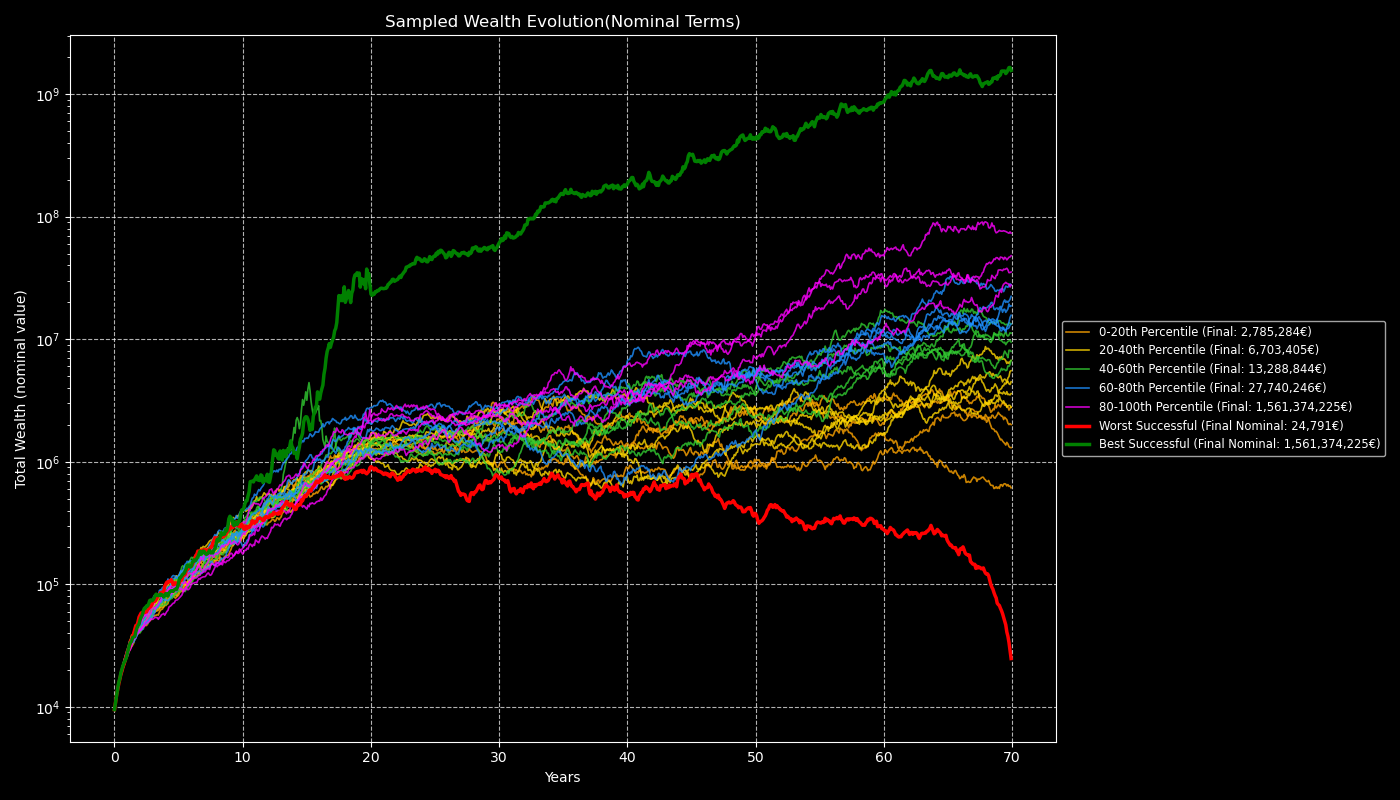
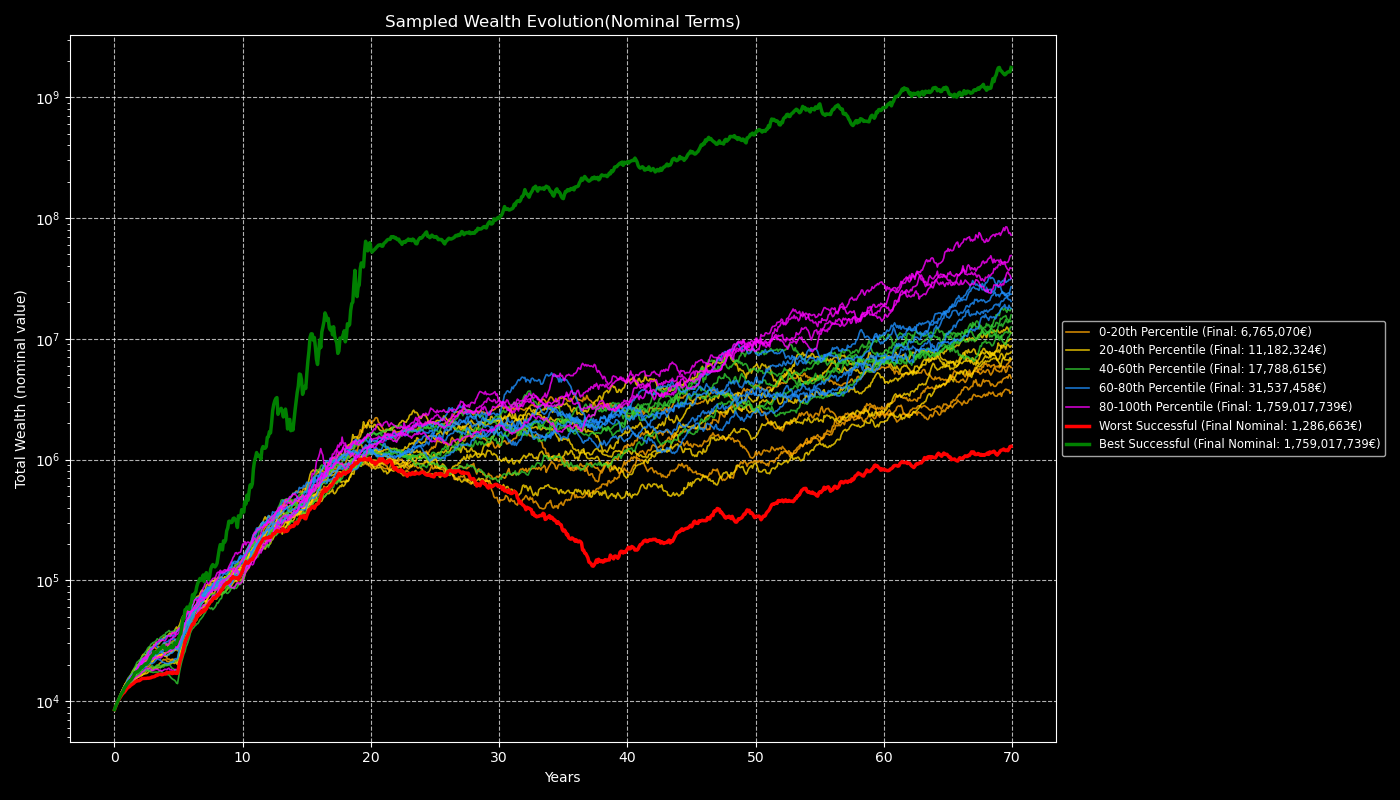
Docs.

diff --git a/docs/reports/summary.md b/docs/reports/summary.md
@@ -1,74 +1,80 @@
 # FIRE Plan Simulation Report
 
-Report generated on: 2025-07-24 12:20:42
+Report generated on: 2025-07-26 16:25:11
 Using configuration: `config.toml`
 
 ## FIRE Plan Simulation Summary
 
-- **FIRE Plan Success Rate:** 70.15%
-- **Number of failed simulations:** 2985
-- **Average months lasted in failed simulations:** 578.5
+- **FIRE Plan Success Rate:** 99.18%
+- **Number of failed simulations:** 82
+- **Average months lasted in failed simulations:** 209.0
 
 ## Final Wealth Distribution Statistics (Successful Simulations)
 
 | Statistic                     | Nominal Final Wealth          | Real Final Wealth (Today's Money) |
 |-------------------------------|-------------------------------|-----------------------------------|
-| Median (P50)                  | 9,477,741.48  | 1,762,743.87         |
-| 25th Percentile (P25)         | 3,600,072.23     | 678,297.13            |
-| 75th Percentile (P75)         | 22,380,777.30     | 4,336,351.09            |
-| Interquartile Range (P75-P25) | 18,780,705.07     | 3,658,053.95            |
+| Median (P50)                  | 13,982,998.30  | 2,538,218.88         |
+| 25th Percentile (P25)         | 7,771,846.63     | 1,381,654.68            |
+| 75th Percentile (P75)         | 26,900,633.18     | 4,961,089.74            |
+| Interquartile Range (P75-P25) | 19,128,786.55     | 3,579,435.06            |
 
 ## Nominal Results (cases selected by nominal final wealth)
 
 #### Worst Successful Case (Nominal)
 
-- **Final Wealth (Nominal):** 24,790.71
-- **Final Wealth (Real):** 6,153.34
-- **Your life CAGR (Nominal):** 1.63%
-- **Final Allocations (percent):** stocks: 100.0%, bonds: 0.0%, str: 0.0%, eth: 0.0%, ag: 0.0%, real_estate: 0.0%, inflation: 0.0%
-- **Nominal Asset Values:** stocks: 4,646.59 , bonds: 0.00 , str: 0.00 , eth: 0.00 , ag: 0.00 , real_estate: 0.00 , inflation: 0.00 , Bank: 20,144.12
+- **Final Wealth (Nominal):** 1,286,663.33
+- **Final Wealth (Real):** 242,972.05
+- **Cumulative Inflation Factor:** 5.2955
+- **Your life CAGR (Nominal):** 7.53%
+- **Final Allocations (percent):** stocks: 49.0%, bonds: 51.0%, str: 0.0%, eth: 0.0%, ag: 0.0%, real_estate: 0.0%
+- **Nominal Asset Values:** stocks: 605,093.52 , bonds: 628,614.61 , str: 0.00 , eth: 0.00 , ag: 0.00 , real_estate: 0.00 , Bank: 52,955.20
 
 #### Median Successful Case (Nominal)
 
-- **Final Wealth (Nominal):** 9,477,741.48
-- **Final Wealth (Real):** 2,181,489.57
-- **Your life CAGR (Nominal):** 10.64%
-- **Final Allocations (percent):** stocks: 100.0%, bonds: 0.0%, str: 0.0%, eth: 0.0%, ag: 0.0%, real_estate: 0.0%, inflation: 0.0%
-- **Nominal Asset Values:** stocks: 9,456,018.38 , bonds: 0.00 , str: 0.00 , eth: 0.00 , ag: 0.00 , real_estate: 0.00 , inflation: 0.00 , Bank: 21,723.10
+- **Final Wealth (Nominal):** 13,983,187.27
+- **Final Wealth (Real):** 2,666,273.85
+- **Cumulative Inflation Factor:** 5.2445
+- **Your life CAGR (Nominal):** 11.26%
+- **Final Allocations (percent):** stocks: 96.0%, bonds: 4.0%, str: 0.0%, eth: 0.0%, ag: 0.0%, real_estate: 0.0%
+- **Nominal Asset Values:** stocks: 13,372,449.10 , bonds: 558,293.49 , str: 0.00 , eth: 0.00 , ag: 0.00 , real_estate: 0.00 , Bank: 52,444.68
 
 #### Best Successful Case (Nominal)
 
-- **Final Wealth (Nominal):** 1,561,374,224.98
-- **Final Wealth (Real):** 298,305,313.59
-- **Your life CAGR (Nominal):** 19.01%
-- **Final Allocations (percent):** stocks: 97.6%, bonds: 2.4%, str: 0.0%, eth: 0.0%, ag: 0.0%, real_estate: 0.0%, inflation: 0.0%
-- **Nominal Asset Values:** stocks: 1,523,933,739.48 , bonds: 37,414,314.76 , str: 0.00 , eth: 0.00 , ag: 0.00 , real_estate: 0.00 , inflation: 0.00 , Bank: 26,170.74
+- **Final Wealth (Nominal):** 1,759,017,738.80
+- **Final Wealth (Real):** 410,403,135.94
+- **Cumulative Inflation Factor:** 4.2861
+- **Your life CAGR (Nominal):** 19.21%
+- **Final Allocations (percent):** stocks: 94.2%, bonds: 5.8%, str: 0.0%, eth: 0.0%, ag: 0.0%, real_estate: 0.0%
+- **Nominal Asset Values:** stocks: 1,657,192,172.88 , bonds: 101,782,705.20 , str: 0.00 , eth: 0.00 , ag: 0.00 , real_estate: 0.00 , Bank: 42,860.73
 
 ## Real Results (cases selected by real final wealth)
 
 #### Worst Successful Case (Real)
 
-- **Final Wealth (Real):** 5,298.27
-- **Final Wealth (Nominal):** 28,576.10
-- **Your life CAGR (Real):** -0.59%
-- **Final Allocations (percent):** stocks: 100.0%, bonds: 0.0%, str: 0.0%, eth: 0.0%, ag: 0.0%, real_estate: 0.0%, inflation: 0.0%
-- **Nominal Asset Values:** stocks: 1,608.71 , bonds: 0.00 , str: 0.00 , eth: 0.00 , ag: 0.00 , real_estate: 0.00 , inflation: 0.00 , Bank: 26,967.39
+- **Final Wealth (Real):** 180,453.56
+- **Final Wealth (Nominal):** 1,452,048.46
+- **Cumulative Inflation Factor:** 8.0467
+- **Your life CAGR (Real):** 4.55%
+- **Final Allocations (percent):** stocks: 53.5%, bonds: 46.5%, str: 0.0%, eth: 0.0%, ag: 0.0%, real_estate: 0.0%
+- **Nominal Asset Values:** stocks: 734,217.05 , bonds: 637,364.80 , str: 0.00 , eth: 0.00 , ag: 0.00 , real_estate: 0.00 , Bank: 80,466.60
 
 #### Median Successful Case (Real)
 
-- **Final Wealth (Real):** 1,762,743.87
-- **Final Wealth (Nominal):** 10,899,607.97
-- **Your life CAGR (Real):** 8.01%
-- **Final Allocations (percent):** stocks: 100.0%, bonds: 0.0%, str: 0.0%, eth: 0.0%, ag: 0.0%, real_estate: 0.0%, inflation: 0.0%
-- **Nominal Asset Values:** stocks: 10,868,691.37 , bonds: 0.00 , str: 0.00 , eth: 0.00 , ag: 0.00 , real_estate: 0.00 , inflation: 0.00 , Bank: 30,916.60
+- **Final Wealth (Real):** 2,538,877.30
+- **Final Wealth (Nominal):** 10,684,805.85
+- **Cumulative Inflation Factor:** 4.2085
+- **Your life CAGR (Real):** 8.58%
+- **Final Allocations (percent):** stocks: 91.2%, bonds: 8.8%, str: 0.0%, eth: 0.0%, ag: 0.0%, real_estate: 0.0%
+- **Nominal Asset Values:** stocks: 9,708,237.99 , bonds: 934,483.10 , str: 0.00 , eth: 0.00 , ag: 0.00 , real_estate: 0.00 , Bank: 42,084.77
 
 #### Best Successful Case (Real)
 
-- **Final Wealth (Real):** 298,305,313.59
-- **Final Wealth (Nominal):** 1,561,374,224.98
-- **Your life CAGR (Real):** 16.23%
-- **Final Allocations (percent):** stocks: 97.6%, bonds: 2.4%, str: 0.0%, eth: 0.0%, ag: 0.0%, real_estate: 0.0%, inflation: 0.0%
-- **Nominal Asset Values:** stocks: 1,523,933,739.48 , bonds: 37,414,314.76 , str: 0.00 , eth: 0.00 , ag: 0.00 , real_estate: 0.00 , inflation: 0.00 , Bank: 26,170.74
+- **Final Wealth (Real):** 410,403,135.94
+- **Final Wealth (Nominal):** 1,759,017,738.80
+- **Cumulative Inflation Factor:** 4.2861
+- **Your life CAGR (Real):** 16.76%
+- **Final Allocations (percent):** stocks: 94.2%, bonds: 5.8%, str: 0.0%, eth: 0.0%, ag: 0.0%, real_estate: 0.0%
+- **Nominal Asset Values:** stocks: 1,657,192,172.88 , bonds: 101,782,705.20 , str: 0.00 , eth: 0.00 , ag: 0.00 , real_estate: 0.00 , Bank: 42,860.73
 
 ## Visualizations
 
@@ -165,18 +171,19 @@ monthly_income_steps = [
 income_inflation_factor = 0.6
 income_end_year = 20
 monthly_pension = 4000.0
-pension_inflation_factor = 0.6
+pension_inflation_factor = 0.75
 pension_start_year = 37
-planned_contributions = [
-    { amount = 0.0, year = 0 },
-]
+planned_contributions = []
 annual_fund_fee = 0.0015
-monthly_expenses = 2500.0
-planned_extra_expenses = [
-    { amount = 30000.0, year = 37, description = "Buy a car" },
+monthly_expenses_steps = [
+    { year = 0, monthly_amount = 3500.0 },
+    { year = 20, monthly_amount = 3000.0 },
+    { year = 37, monthly_amount = 2500.0 },
+    { year = 50, monthly_amount = 1500.0 },
 ]
-planned_house_purchase_cost = 0.0
-house_purchase_year = 0
+planned_extra_expenses = [
+    { amount = 30000.0, year = 20, description = "Buy a car" },
+]
 
 [correlation_matrix]
 assets_order = [

diff --git a/README.md b/README.md
@@ -38,45 +38,19 @@ asset allocation.
 
   **Example**:
 
-  ```toml
-  # Stock parameters based on MSCI World (EUR) annual total returns from 2016-2025
-  # MU: Arithmetic Mean
-  # SIGMA: Arithmetic Standard Deviation
-  # mu = 0.1017
-  # sigma = 0.1478
-  #
-  # The 2016-2025 period was exceptionally strong for global equities
-  # For a long-term simulation (30+ years), it's advisable to temper expectations
-  # based on very long-term historical averages and current market valuations
+  ```toml  
   [assets.stocks]
   mu = 0.07
   sigma = 0.15
   is_liquid = true
   withdrawal_priority = 2
 
-  # European Bond parameters based on Bloomberg Euro Aggregate Bond Index (EUR)
-  # annual total returns from 2004-2023.
-  # MU: Arithmetic Mean
-  # SIGMA: Arithmetic Standard Deviation
-  # mu = 0.0193
-  # sigma = 0.0535
-  #
-  # The 2004-2023 period includes many years of historically very low and even
-  # negative interest rates in Europe. The environment has shifted, and current
-  # yields are significantly higher.
   [assets.bonds]
   mu = 0.03
   sigma = 0.055
   is_liquid = true
   withdrawal_priority = 1
 
-  # Inflation parameters based on Eurozone HICP annual inflation rates from 2004-2023.
-  # MU: Arithmetic Mean of inflation
-  # SIGMA: Arithmetic Standard Deviation of inflation
-  # mu = 0.0220
-  # sigma = 0.0229
-  #
-  # More conservative for the future
   [assets.inflation]
   mu = 0.025
   sigma = 0.025
@@ -130,7 +104,7 @@ asset allocation.
   ![Bank account balance trajectories](docs/pics/bank_account_trajectories_nominal.png)
 
   Duration distribution of failed cases
-  ![Duration distribution of failed cases](docs/pics/retirement_duration_distribution.png)
+  ![Duration distribution of failed cases](docs/pics/failed_duration_distribution.png)
 
   Distribution of final wealth for successful outcomes
   ![Distribution of final wealth for successful outcomes](docs/pics/final_wealth_distribution_nominal.png)
@@ -291,6 +265,7 @@ For mathematical background, advanced usage, and additional guides, see the [doc
 
 - [Installation Guide](docs/install.md): Step-by-step instructions for installing firestarter from a
   GitHub release.
+- [Configuration Example](configs/config.toml): Configuration example with all parameters.
 - [Configuration Reference](docs/config.md): Detailed explanation of all configuration parameters.
 - [Usage Guide](docs/usage.md): How to install, configure, and run the simulation.
 - [Results](docs/output.md): Detailed explanation of all outputs of the simulation.
